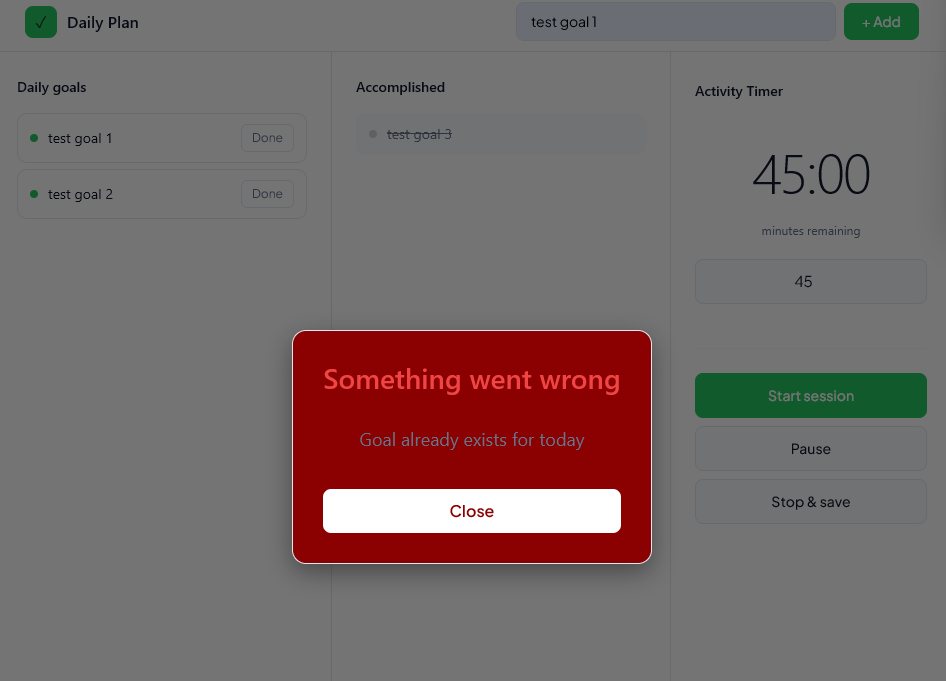
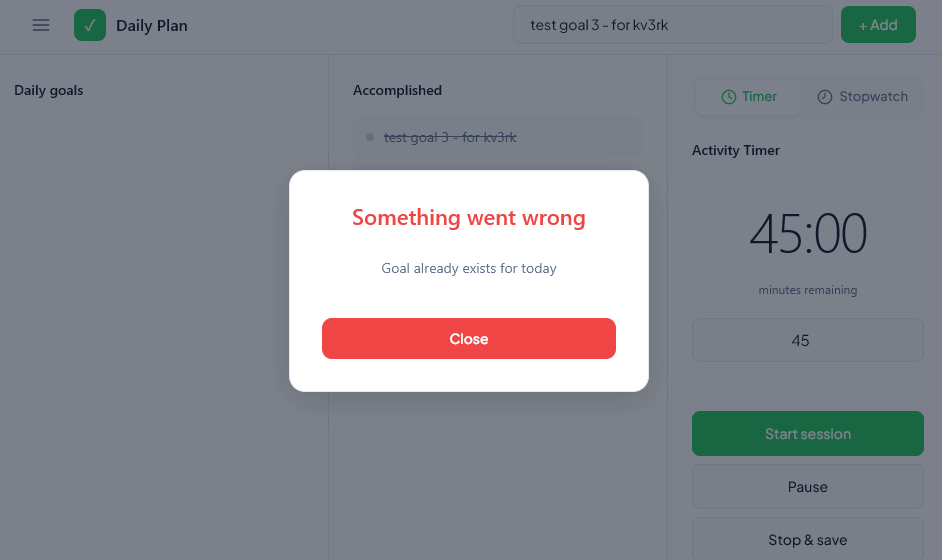
swapped error-notification.png and redesigned Error.css

diff --git a/src/main/resources/static/css/main-page/Error.css b/src/main/resources/static/css/main-page/Error.css
@@ -1,7 +1,7 @@
 #error-modal-overlay {
     position: fixed;
     inset: 0;
-    background: rgba(0,0,0,0.55);
+    background: rgba(15, 23, 42, 0.55);
     display: none;
     justify-content: center;
     align-items: center;
@@ -9,33 +9,45 @@
 }
 
 #error-modal {
-    background: #8b0000;
-    color: white;
-    padding: 30px;
-    border-radius: 14px;
+    background: var(--white, #ffffff);
+    color: var(--text, #0f172a);
+    padding: 32px;
+    border-radius: 16px;
     min-width: 350px;
     max-width: 500px;
-    box-shadow: 0 8px 25px rgba(0,0,0,0.4);
+    box-shadow: 0 8px 32px rgba(0, 0, 0, 0.12);
     text-align: center;
+    border: 1px solid var(--border, #e2e8f0);
 }
 
 #error-modal-title {
-    font-size: 28px;
-    margin-bottom: 15px;
+    font-size: 22px;
+    font-weight: 600;
+    margin-bottom: 12px;
+    color: var(--danger, #ef4444);
 }
 
 #error-modal-message {
-    font-size: 18px;
-    margin-bottom: 20px;
+    font-size: 14px;
+    margin-bottom: 24px;
     white-space: pre-line;
+    color: var(--text-muted, #64748b);
+    line-height: 1.5;
 }
 
 #error-modal-close {
-    background: white;
-    color: darkred;
+    background: var(--danger, #ef4444);
+    color: #ffffff;
     border: none;
-    padding: 10px 25px;
-    border-radius: 8px;
+    padding: 10px 28px;
+    border-radius: 10px;
     cursor: pointer;
-    font-weight: bold;
+    font-weight: 600;
+    font-size: 14px;
+    font-family: 'Plus Jakarta Sans', sans-serif;
+    transition: background 0.15s ease;
+}
+
+#error-modal-close:hover {
+    background: #dc2626;
 }
